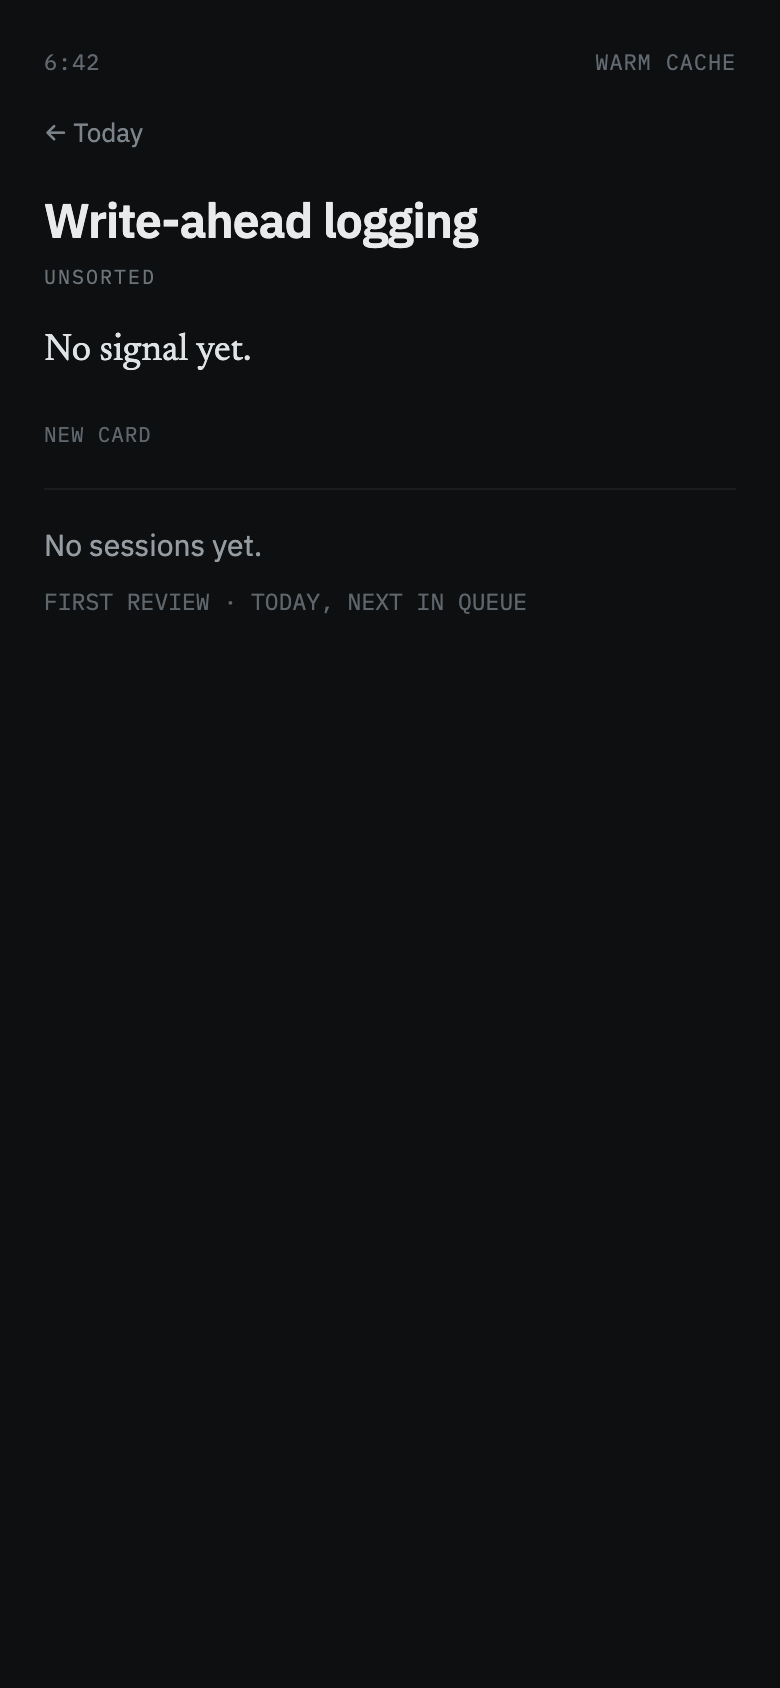
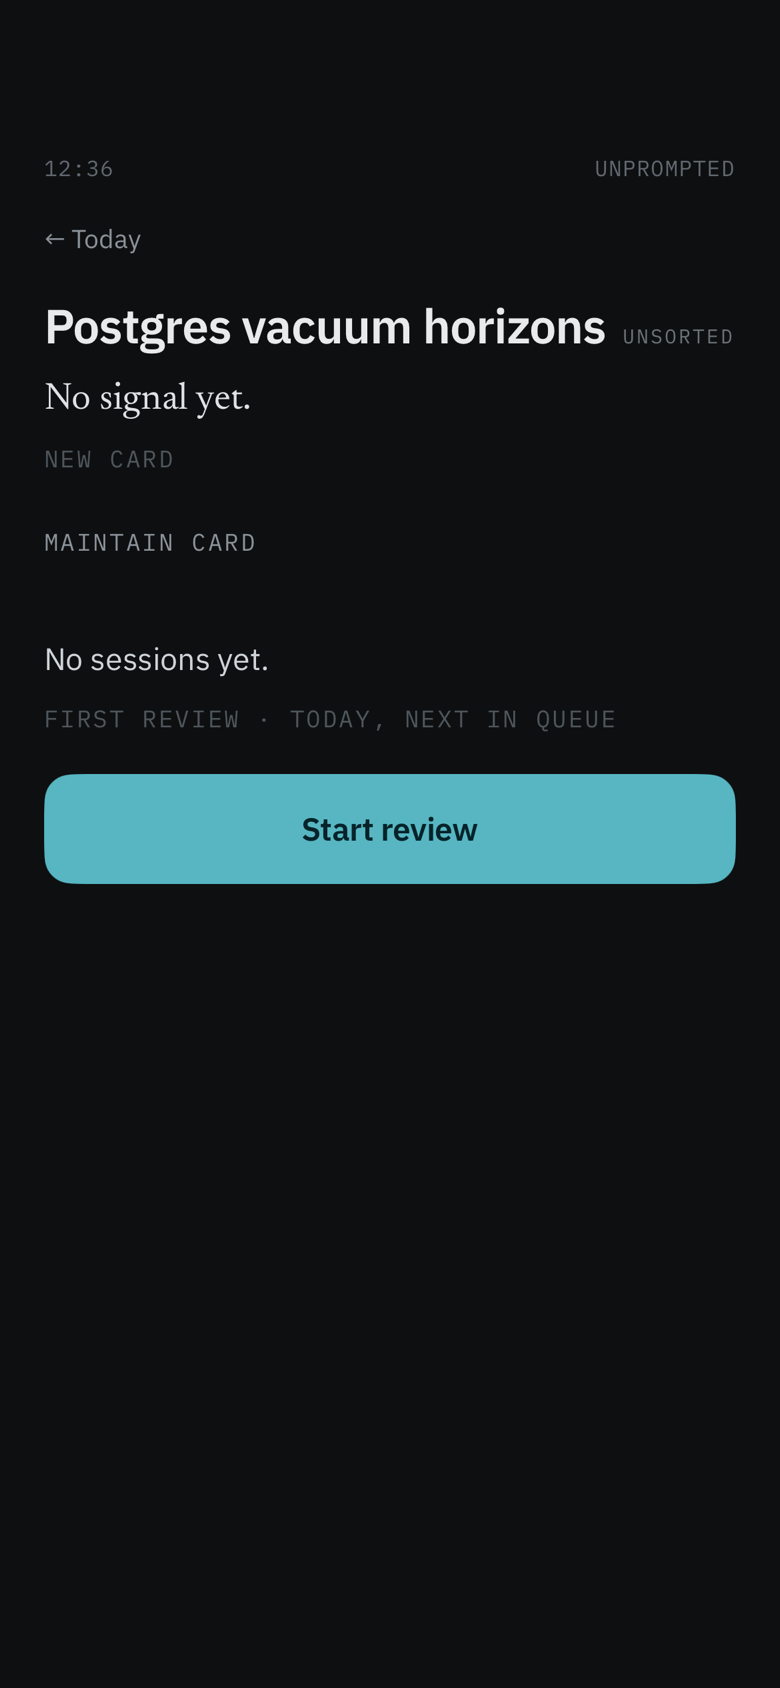
Add review entry to empty history

diff --git a/ios/DevmaxTests/HistoryRoutingTests.swift b/ios/DevmaxTests/HistoryRoutingTests.swift
@@ -1,0 +1,33 @@
+import XCTest
+@testable import Devmax
+
+final class HistoryRoutingTests: XCTestCase {
+    private static let card = DueCard(
+        id: UUID(), topic: "Non-functional requirements", category: "Delivery",
+        masterySummary: "No signal yet.", lastScore: nil, dueLabel: "due today",
+        resumable: false, missedCount: 0
+    )
+
+    @MainActor
+    func testEmptyHistoryCanStartOnlyItsDueReview() {
+        let state = AppState(api: MockAPI.shared)
+        state.queue = [Self.card]
+        state.path = [.history(Self.card.id)]
+
+        XCTAssertTrue(state.beginReviewFromHistory(cardID: Self.card.id))
+        XCTAssertEqual(state.sessionCards, [Self.card])
+        XCTAssertEqual(state.path, [.conversation(Self.card.id)])
+    }
+
+    @MainActor
+    func testHistoryCannotStartACardOutsideTheDueQueue() {
+        let state = AppState(api: MockAPI.shared)
+        let otherID = UUID()
+        state.queue = [Self.card]
+        state.path = [.history(otherID)]
+
+        XCTAssertFalse(state.beginReviewFromHistory(cardID: otherID))
+        XCTAssertTrue(state.sessionCards.isEmpty)
+        XCTAssertEqual(state.path, [.history(otherID)])
+    }
+}

diff --git a/ios/Devmax/App/AppState.swift b/ios/Devmax/App/AppState.swift
@@ -495,6 +495,16 @@ final class AppState: ObservableObject {
         launchQuestionLoad(card)
     }
 
+    /// Rescues the empty-history path without turning Card History into an
+    /// unscheduled practice launcher. Only a card in Today's due queue may start
+    /// here, and Conversation replaces History so its close action returns home.
+    @discardableResult
+    func beginReviewFromHistory(cardID: UUID) -> Bool {
+        guard let card = queue.first(where: { $0.id == cardID }) else { return false }
+        beginSession(cards: [card], replacingPath: true)
+        return true
+    }
+
     var currentCard: DueCard? { sessionCards[safe: cursor] }
 
     /// The current card's topic in a multi-card session, otherwise its category.

diff --git a/ios/Devmax/Screens/History/CardHistoryScreen.swift b/ios/Devmax/Screens/History/CardHistoryScreen.swift
@@ -117,6 +117,13 @@ struct CardHistoryScreen: View {
                     .foregroundStyle(Theme.textSecondary)
                 MetaText(text: "FIRST REVIEW · TODAY, NEXT IN QUEUE",
                          font: TypeRole.metaBody, tracking: 1.0, color: Theme.metaFaint)
+
+                if state.queue.contains(where: { $0.id == cardID }) {
+                    PrimaryButton(title: "Start review") {
+                        state.beginReviewFromHistory(cardID: cardID)
+                    }
+                    .padding(.top, 8)
+                }
             }
             .wcFade()
         } else {

diff --git a/design_handoff_devmax_initial/README.md b/design_handoff_devmax_initial/README.md
@@ -326,7 +326,10 @@ No toast, no full-screen error, no data loss. Retrying re-posts the same payload
   `YOUR ANSWER` / `FOLLOW-UP` / `SCORE & FEEDBACK`; questions in serif 17px `#dfe3e5`,
   answers 14.5px `#a8afb5`, the score line colored by score. One row open at a time.
 - **Empty** (`screenshots/card-history-empty.png`): "No sessions yet." + mono
-  `FIRST REVIEW · TODAY, NEXT IN QUEUE`. Meta line reads `NEW CARD`.
+  `FIRST REVIEW · TODAY, NEXT IN QUEUE`. Meta line reads `NEW CARD`. When that
+  card is still in Today's due queue, an accent **Start review** button follows
+  the metadata and opens its Conversation. The button is withheld for non-due
+  cards so History cannot become an unscheduled review launcher.
 
 ---
 
@@ -484,8 +487,10 @@ creation or editing from Coverage · a week-by-week pace view of any kind.
 ## Navigation
 
 Today is home. Card History is reached from a Today row's topic name, or from
-"View history for this card" on the session-end state. Conversation is entered from a row
-tap, Start, or Review Sprint Setup's Start, and exited with `✕` / Done. Review Sprint Setup
+"View history for this card" on the session-end state. An empty History for a
+card that is still due may enter Conversation through **Start review**; otherwise
+Conversation is entered from a row tap, Start, or Review Sprint Setup's Start,
+and exited with `✕` / Done. Review Sprint Setup
 is reached only from Today and exits via `← Today` or by starting a session; Coverage is
 reached only from Setup and returns there; Session Recap
 appears after the last card of any multi-card session and exits to Today or back to Setup.
